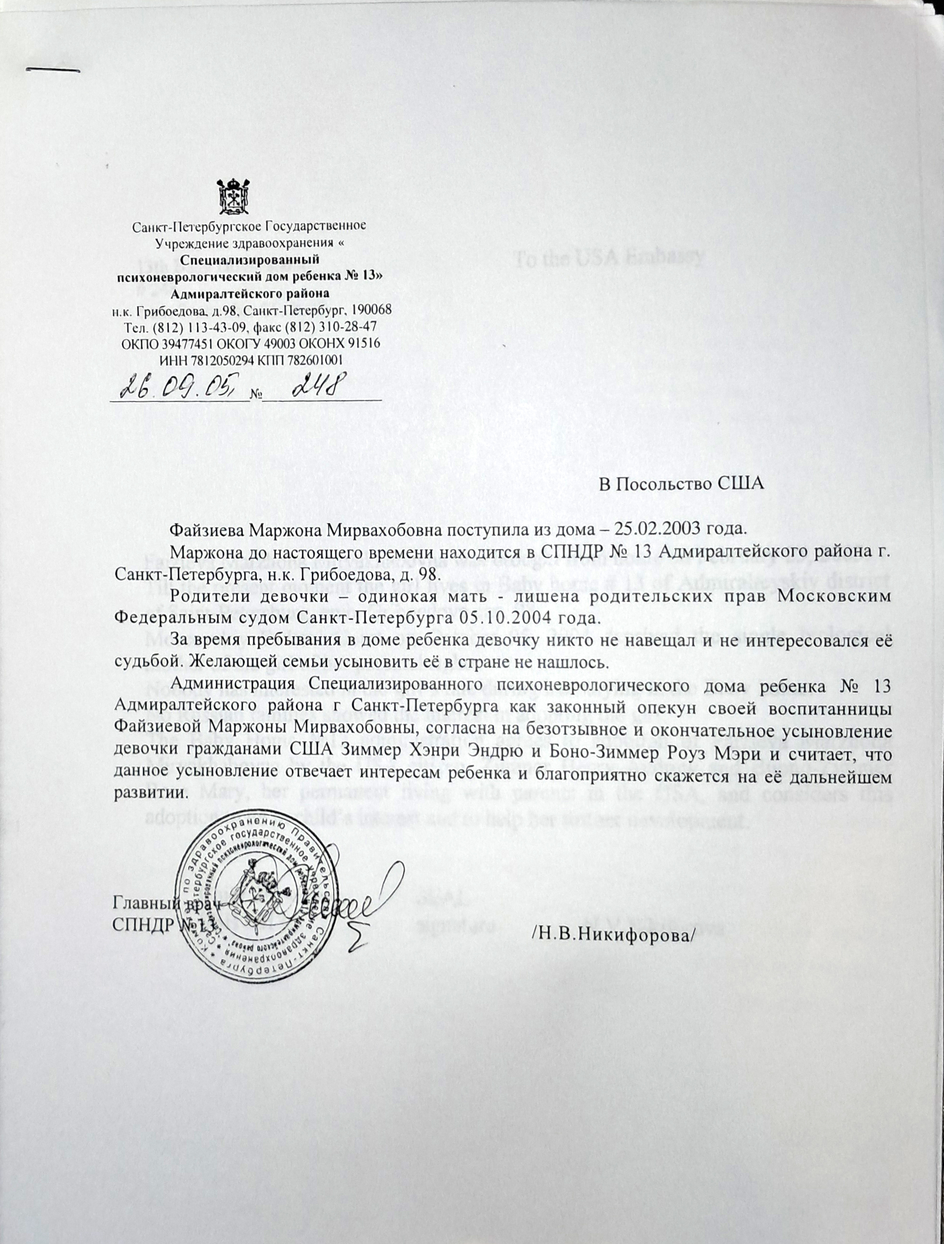
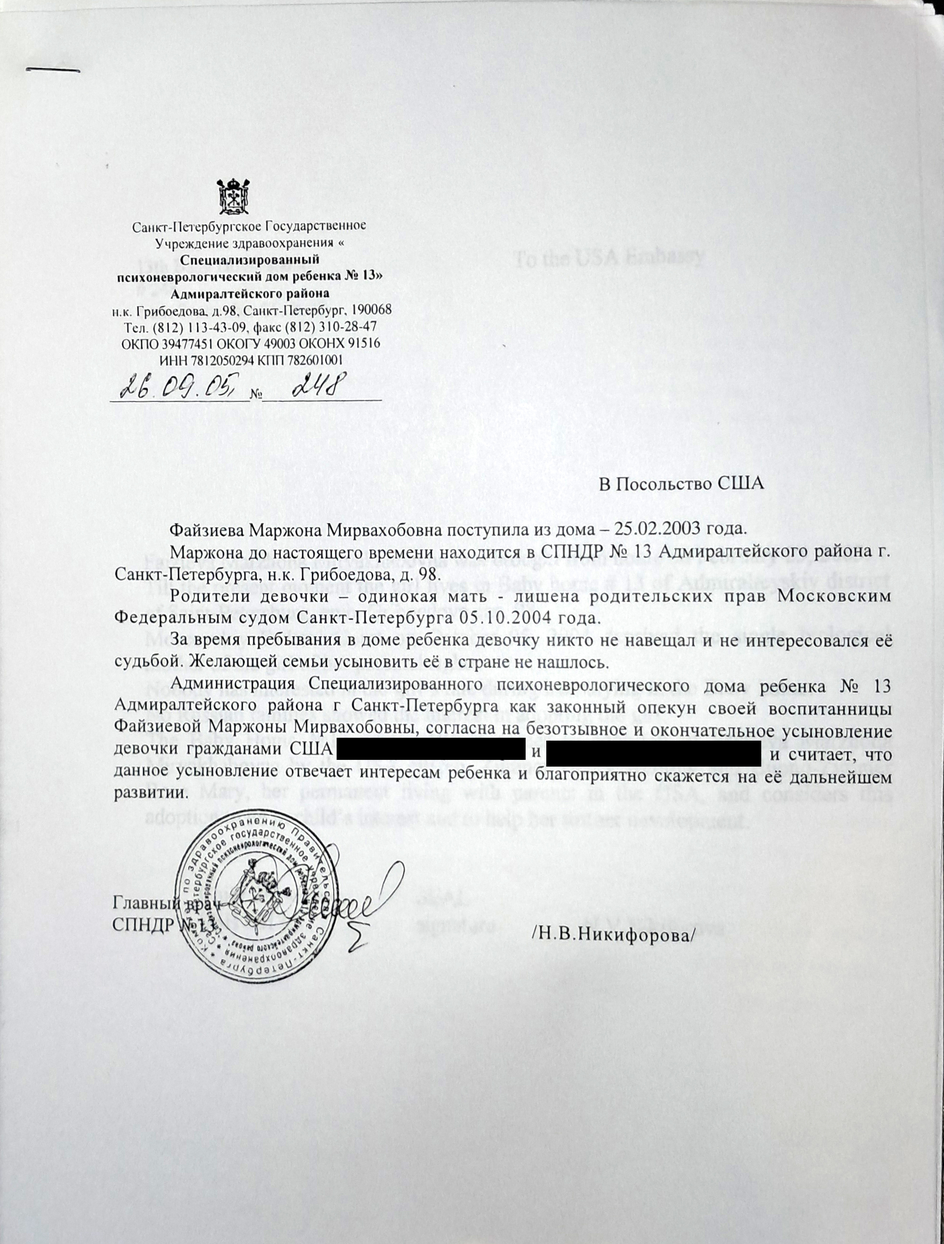
html drag adjutments

Changed region(s): [[0.3418, 0.588, 0.8079, 0.619]]

diff --git a/duktar/gallery.html b/duktar/gallery.html
@@ -114,12 +114,13 @@
         font-family: "ApfelGrotezk", Georgia, serif;
         font-size: 0.68rem;
         letter-spacing: 0.1em;
-        color: #1c1208;
+        color: #a09080;
         text-transform: uppercase;
         text-decoration: none;
       }
 
       #back-link:hover {
+        color: #e8dcc8;
         text-decoration: underline;
       }
     </style>
@@ -253,6 +254,10 @@
           item.addEventListener("mousedown", (e) => {
             dragging = true;
             hasDragged = false;
+            document
+              .querySelectorAll(".photo-item")
+              .forEach((el) => (el.style.zIndex = "2"));
+            item.style.zIndex = "50";
             const fieldRect = field.getBoundingClientRect();
             dragOffX = e.clientX - fieldRect.left - item.offsetLeft;
             dragOffY =
@@ -282,8 +287,7 @@
               typeof socket !== "undefined" &&
               socketConnected
             ) {
-              const nodeId =
-                "gallery_" + photo.src.split("/").pop().replace(".", "_");
+              const nodeId = "gallery_" + photo.src.split("/").pop();
               socket.emit("node_move", {
                 nodeId,
                 x: parseInt(item.style.left),
@@ -314,11 +318,8 @@
 
       // Receive saved positions from server (broadcast on connect via node_moved)
       window.applyNodeMove = function (nodeId, x, y) {
-        // match gallery_image1_jpg -> photo-item containing images/image1.jpg
-        const filename = nodeId
-          .replace("gallery_", "")
-          .replace("_jpg", ".jpg")
-          .replace(/_([^_]+)$/, ".$1");
+        if (!nodeId.startsWith("gallery_")) return;
+        const filename = nodeId.replace("gallery_", "");
         document.querySelectorAll(".photo-item").forEach((item) => {
           const canvas = item.querySelector(".distort-canvas");
           if (

diff --git a/duktar/dossier.html b/duktar/dossier.html
@@ -642,6 +642,10 @@
         node.addEventListener("mousedown", (e) => {
           dragging = true;
           hasDragged = false;
+          document
+            .querySelectorAll(".doc-node")
+            .forEach((n) => (n.style.zIndex = "2"));
+          node.style.zIndex = "50";
           const field = document.getElementById("constellation-field");
           const fieldRect = field.getBoundingClientRect();
           dragOffX = e.clientX - fieldRect.left - node.offsetLeft;

diff --git a/duktar/duktar.html b/duktar/duktar.html
@@ -57,7 +57,9 @@
             _titleIdx = (_titleIdx + 1) % _titles.length;
           }
         </script>
-        <div id="site-subtitle">Speculative Counter-Archive</div>
+        <div id="site-subtitle">
+          what you look for, you will lose; what you extract, is a wound
+        </div>
         <div id="header-meta">
           <span class="header-label"
             >Last Modified: <span id="mod-date">—</span></span
